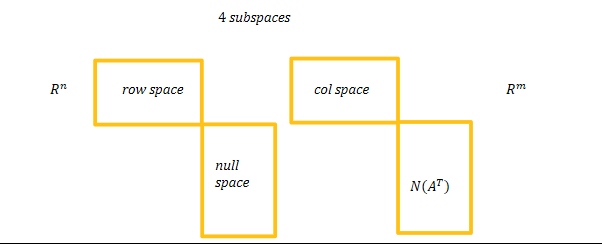
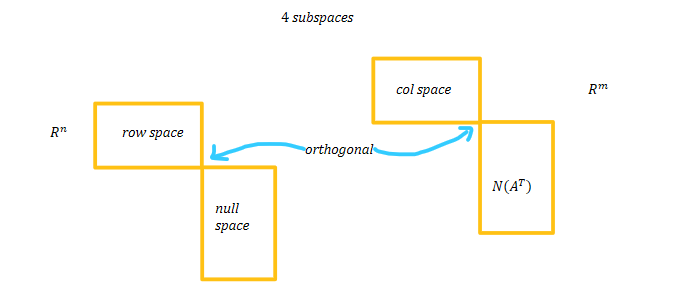
src/线性代数：子空间

Changed region(s): [[0.0, 0.1721, 1.0, 1.0], [0.3588, 0.0287, 0.5382, 0.1148], [0.8372, 0.2869, 0.897, 0.4016]]

diff --git a/src/线性代数：子空间.md b/src/线性代数：子空间.md
@@ -5,7 +5,7 @@ ReRetags:
   - Linear Algebra
 ---
 
-### 线性相关
+### Linear dependence
 
 Suppose $A$ is $m \times n$ with $m \lt n$
 
@@ -116,3 +116,58 @@ $A$ is $m \times n$
 - $C(A^{T})$ in $R^{n}$
 - $N(A^{T})$ in $R^{m}$
 
+![subspace](https://github.com/trierbo/blog-source/raw/master/pics/subspace/subspace.png)
+
+|       | $C(A)$        | $C(A^{T})$ | $N(A)$            | $N(A^{T})$ |
+| ----- | ------------- | ---------- | ----------------- | ---------- |
+| basis | pivot columns |            | special solutions |            |
+| dim   | $r$           | $r$        | $n-r$             | $m-r$      |
+
+$$
+A = \left[\begin{array}{cccc}
+1& 2& 3& 1\\
+1& 1& 2& 1\\
+1& 2& 3& 1
+\end{array}\right] \rightarrow
+\left[\begin{array}{cccc}
+1& 0& 1& 1\\
+0& 1& 1& 0\\
+0& 0& 0& 0
+\end{array}\right] = R
+$$
+
+$$
+r = 2 \\
+C(R) \neq C(A)
+$$
+
+different col space, same row space
+
+basis for row space ($C(R^{T})$, $C(A^{T})$) is first $r$ rows of $R$
+
+#### $4^{th}$ space: $N(A^{T})$
+
+$$
+A^{T}y = 0 \\
+y^{T}A = 0 \quad left\ null\ space
+$$
+
+$$
+rref: \left[\begin{array}{cccc}A_{m \times n}& I_{m \times m}\end{array}\right] \to
+\left[\begin{array}{cccc}R_{m \times n}& E_{m \times m}\end{array}\right] \\
+EA = R \\
+m -r = 1
+$$
+
+$$
+E = \left[\begin{array}{cccc}
+-1& 2& 0\\
+1& -1& 0\\
+-1& 0& 1
+\end{array}\right] \to
+c\left[\begin{array}{cccc}
+-1 \\
+0 \\
+1
+\end{array}\right]
+$$
